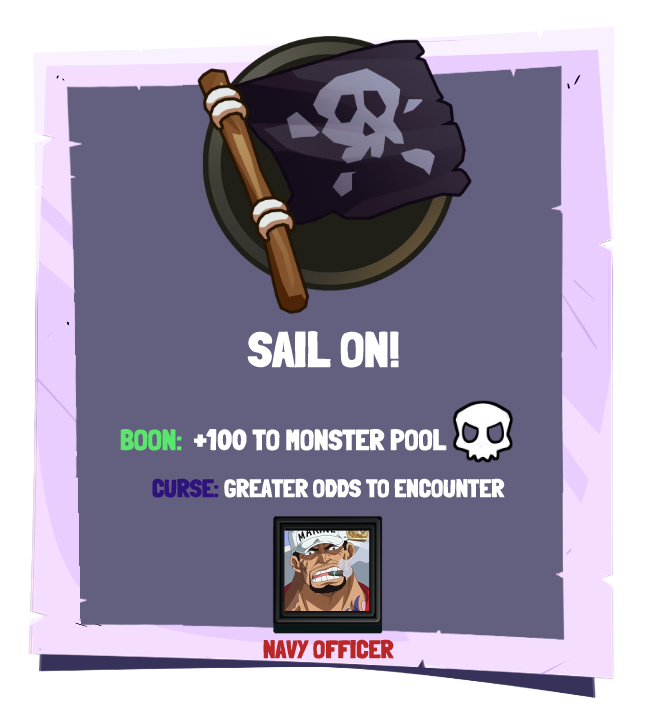
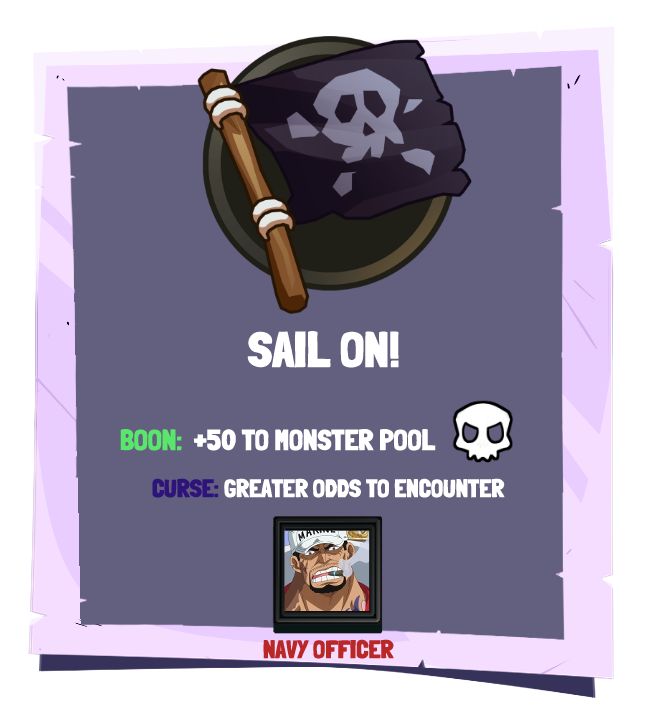
Implemented Stack feature and reduced monster pool

Changed region(s): [[0.3077, 0.5806, 0.6769, 0.6417]]

diff --git a/sunkenStones-Bleeding/js/game.js b/sunkenStones-Bleeding/js/game.js
@@ -80,7 +80,7 @@
             
             
             //to be determined by selected ship
-            this.deploy_poolCurrent = 2;
+            this.deploy_poolCurrent = 3;
             this.deploy_poolMax = this.deploy_poolCurrent 
 
             this.clear_Button = this.add.sprite(this.game.width-500, this.game.height-400, 'ui_clear_button');            
@@ -460,7 +460,7 @@
           this.monCountUI.anchor.setTo(0.5, 0.5);  
           this.monCountUI.width = 100
           this.monCountUI.height = 100         
-          this.monCountValue = 100
+          this.monCountValue = 150
 
           this.expWidth = this.chestUI.x - this.saltMeterUI.x
           this.saltMeterBack.width = this.expWidth
@@ -1117,7 +1117,7 @@
                   
                   //show enemy health and deploy cost
                   
-                  if((this.tile[''+j+i].isEnemyHere || this.tile[''+j+i].isCrewHere) && this.tile[''+j+i].monID != 1 && !this.tile[""+j+i].submerged && !this.tile[""+j+i].isFlipping ){
+                  if(((this.tile[''+j+i].isEnemyHere && !this.tile[""+j+i].submerged) || this.tile[''+j+i].isCrewHere) && this.tile[''+j+i].monID != 1 && !this.tile[""+j+i].isFlipping ){
                     this.tile[''+j+i].healthText.alpha = 1;
                     this.tile[''+j+i].powerText.alpha = 1;
 
@@ -1259,7 +1259,7 @@
 
   
 
-                  if(this.tile[""+j+i].isEnemyHere){
+                  if(this.tile[""+j+i].isEnemyHere && !this.tile[""+j+i].isCrewHere){
                     if(this.tile[""+j+i].isFlipping){
                       this.tile[""+j+i].loadTexture(this.tile[""+j+i].oldTexture)
                     }
@@ -1453,7 +1453,7 @@
                
               break;      
             case 201:
-              this.monCountValue = 100
+              this.monCountValue = 50
               this.bounty += 10
               break;                                                                    
 
@@ -1517,13 +1517,13 @@
                   this.freeCounterNum++;
                 }                 
                 this.tile[''+j+i].crewID = 0
-                this.tile[''+j+i].monID = 0
+                //this.tile[''+j+i].monID = 0
                 this.tile[''+j+i].isCrewHere = false;
-                this.tile[''+j+i].isEnemyHere = false;
-                this.tile[''+j+i].healthText.text = "";
-                this.tile[''+j+i].powerText.text = "";
-                this.tile[''+j+i].healthText.alpha = 0
-                this.tile[''+j+i].powerText.alpha = 0;   
+                //this.tile[''+j+i].isEnemyHere = false;
+                //this.tile[''+j+i].healthText.text = "";
+                //this.tile[''+j+i].powerText.text = "";
+                //this.tile[''+j+i].healthText.alpha = 0
+                //this.tile[''+j+i].powerText.alpha = 0;   
                 this.tile[''+j+i].hasActed = false;
                 this.tile[''+j+i].placeOrder = -1;                                 
                 //break;
@@ -1727,14 +1727,14 @@
                       this.tile[''+j+i].isEnemyHere = true
                       break;
                     case 2:
-                      this.tile[''+j+i].hp = 5;
+                      this.tile[''+j+i].hp = 3;
                       this.tile[''+j+i].power = 3;
                       this.tile[''+j+i].tier = 2
                       //this.tile[''+j+i].multiAttack = 1;
                       this.tile[''+j+i].isEnemyHere = true
                       break;            
                     case 3:
-                      this.tile[''+j+i].hp = 6;
+                      this.tile[''+j+i].hp = 3;
                       this.tile[''+j+i].power = 2;
                       this.tile[''+j+i].tier = 1
                       this.tile[''+j+i].multiAttack = 1;
@@ -1747,37 +1747,37 @@
                       this.tile[''+j+i].isEnemyHere = true
                       break; 
                     case 5:
-                      this.tile[''+j+i].hp = 5;
+                      this.tile[''+j+i].hp = 4;
                       this.tile[''+j+i].power = 1;
                       this.tile[''+j+i].tier = 1
                       this.tile[''+j+i].isEnemyHere = true
                       break;
                     case 6:
-                      this.tile[''+j+i].hp = 5;
+                      this.tile[''+j+i].hp = 4;
                       this.tile[''+j+i].power = 2;
                       this.tile[''+j+i].tier = 1
                       this.tile[''+j+i].isEnemyHere = true
                       break;            
                     case 7:
-                      this.tile[''+j+i].hp = 15;
+                      this.tile[''+j+i].hp = 8;
                       this.tile[''+j+i].power = 3;
                       this.tile[''+j+i].tier = 3
                       this.tile[''+j+i].isEnemyHere = true
                       break;
                     case 8:
-                      this.tile[''+j+i].hp = 5;
+                      this.tile[''+j+i].hp = 2;
                       this.tile[''+j+i].power = 2;
                       this.tile[''+j+i].tier = 1
                       this.tile[''+j+i].isEnemyHere = true
                       break;        
                     case 9:
-                      this.tile[''+j+i].hp = 5;
+                      this.tile[''+j+i].hp = 2;
                       this.tile[''+j+i].power = 3;
                       this.tile[''+j+i].tier = 1
                       this.tile[''+j+i].isEnemyHere = true
                       break;
                     case 10:
-                      this.tile[''+j+i].hp = 6;
+                      this.tile[''+j+i].hp = 2;
                       this.tile[''+j+i].power = 4;
                       this.tile[''+j+i].tier = 3
                       this.tile[''+j+i].isEnemyHere = true
@@ -1895,15 +1895,15 @@
                     break;                                                
                 }                
                 this.tile[''+j+i].crewID = 0
-                this.tile[''+j+i].monID = 0
+                //this.tile[''+j+i].monID = 0
                 this.tile[''+j+i].isCrewHere = false;
-                this.tile[''+j+i].isEnemyHere = false;
-                this.tile[''+j+i].healthText.text = "";
-                this.tile[''+j+i].powerText.text = "";
-                this.tile[''+j+i].healthText.alpha = 0
-                this.tile[''+j+i].powerText.alpha = 0;
+                //this.tile[''+j+i].isEnemyHere = false;
+                //this.tile[''+j+i].healthText.text = "";
+                //this.tile[''+j+i].powerText.text = "";
+                //this.tile[''+j+i].healthText.alpha = 0
+                //this.tile[''+j+i].powerText.alpha = 0;
                 
-                this.tile[''+j+i].isCrewHere = false;
+                
                 this.tile[''+j+i].hasActed = false;                
                 //j =  this.boardWidth
                 //i = this.boardHeight
@@ -1929,6 +1929,7 @@
             for(var j = 0; j < this.boardWidth; j++){   
               this.tile[''+j+i].isCrewHere = false;
               this.tile[''+j+i].hasActed = false;
+              this.tile[''+j+i].hasAttacked = false;
             }
           }  
           /*        
@@ -2095,8 +2096,8 @@
                     this.tile[''+j+i].y  = 1000;
                     this.tile[''+j+i].loadTexture('tile');                
                     this.tile[''+j+i].crewID = 0
-                    this.tile[''+j+i].monID = 0
-                    //this.tile[''+j+i].isCrewHere = false;
+                    //this.tile[''+j+i].monID = 0
+                    this.tile[''+j+i].isCrewHere = false;
                     //this.tile[''+j+i].isEnemyHere = false;
                     this.tile[''+j+i].healthText.text = "";
                     this.tile[''+j+i].powerText.text = "";
@@ -2131,6 +2132,7 @@
             for(var i = 0; i < this.boardHeight; i++){
               for(var j = 0; j < this.boardWidth; j++){   
                 this.tile[''+j+i].hasActed = false;
+                this.tile[''+j+i].hasAttacked = false;
                 this.tile[''+j+i].placeOrder = -1;
               }
             }             
@@ -2404,12 +2406,17 @@
 
           //enemy attacks          
           for(var i = 0; i < this.boardHeight; i++){
-            for(var j = 0; j < this.boardWidth; j++){      
+            for(var j = 0; j < this.boardWidth; j++){     
+              
+              
               if(this.tile[''+j+i].isEnemyHere  && !this.tile[''+j+i].hasAttacked){
+
+
                 //this.tile[''+j+i].alpha = 1;
                 this.tile[''+j+i].hasAttacked = true;
                 //this.placeCrew(this.tile[''+j+i])
 
+                
 
 
                 if(!this.tile[''+j+i].submerged){
@@ -2564,14 +2571,20 @@
                   break;
                 }
                 else{
-                  this.tile[''+j+i].submerged = false;
-                  this.tile[''+j+i].width  = this.size
-                  this.tile[''+j+i].height = this.size  
-                  //this.ActionCounter--;
-                  if(!this.tile[''+j+i].isFlipping){
-                    this.tile[''+j+i].isFlipping = true;
-                    this.tile[""+j+i].oldTexture = this.tile[""+j+i].texture;    
-                   }                  
+                  if(this.tile[''+j+i].isCrewHere){
+                    this.tile[''+j+i].y -= 50;
+                  }
+                  else{
+                    this.tile[''+j+i].submerged = false;
+                    this.tile[''+j+i].width  = this.size
+                    this.tile[''+j+i].height = this.size  
+                    //this.ActionCounter--;
+                    if(!this.tile[''+j+i].isFlipping){
+                      this.tile[''+j+i].isFlipping = true;
+                      this.tile[""+j+i].oldTexture = this.tile[""+j+i].texture;    
+                    } 
+                  }
+                 
                   j =  this.boardWidth
                   i = this.boardHeight
                   break;                  
@@ -2622,8 +2635,8 @@
         ,placeCrew: function (tile) {
           
           
-          //alert("tile info \nIs Flipping? "+tile.isFlipping+"\nisEnemy? "+tile.isEnemyHere+"\nisSubmerged? "+tile.submerged+"\nmonID? "+tile.monID+"\nisCrew? "+tile.isCrewHere)
-          if(this.selectedCrew != 0 && !tile.isEnemyHere && !tile.isCrewHere ){
+          alert("tile info \nIs Flipping? "+tile.isFlipping+"\nisEnemy? "+tile.isEnemyHere+"\nisSubmerged? "+tile.submerged+"\nmonID? "+tile.monID+"\nisCrew? "+tile.isCrewHere)
+          if(this.selectedCrew != 0 && (!tile.isEnemyHere || tile.submerged) && !tile.isCrewHere ){
             var remainingDeploy = this.deploy_poolCurrent - this.crew[this.selectedCrew].deployCost
             tile.placeOrder = this.placeOrderTracker
             this.placeOrderTracker++

diff --git a/sunkenStones-Bleeding/js/menu.js b/sunkenStones-Bleeding/js/menu.js
@@ -39,7 +39,7 @@
       this.scoreCount = this.add.text(this.scoreCountUI.x,this.scoreCountUI.y, sessionStorage.getItem("highScore"), {font: '48px LondrinaSolid-Black',fill: '#fff', align: 'left'});
       this.scoreCount.anchor.setTo(0.5, 0.5);        
       
-      this.titleTxt3 = this.add.text(x,this.game.height-100, '[CLICK TO START]', {font: '32px LondrinaSolid-Black',fill: '#fff', align: 'center'});
+      this.titleTxt3 = this.add.text(x,this.game.height-100, 'VERSION: '+version+'\n[CLICK TO START]', {font: '32px LondrinaSolid-Black',fill: '#fff', align: 'center'});
       this.titleTxt3.anchor.setTo(0.5, 0.5);     
 
       y = y + this.titleTxt.height + 5;

diff --git a/sunkenStones-Bleeding/index.html b/sunkenStones-Bleeding/index.html
@@ -41,6 +41,7 @@
     <script src="js/game.js"></script>
     <script src="js/main.js"></script>
     <script src="js/waves.js"></script>
+    <script src="js/config.js"></script>
     <script src="js/lib/sweetalert2.all.min.js?ver=0.2.0"></script>
 
   <!-- /build -->

diff --git a/sunkenStones-Bleeding/js/config.js b/sunkenStones-Bleeding/js/config.js
@@ -1,0 +1,1 @@
+const version = "0.0.1"
